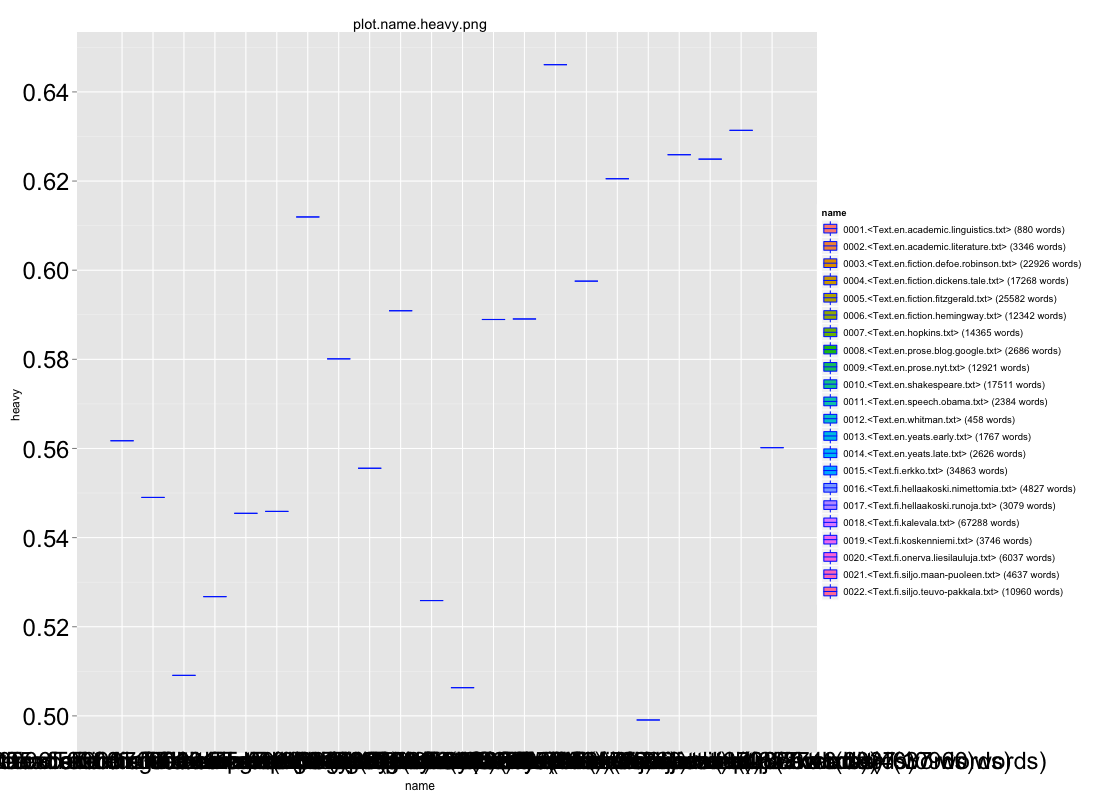
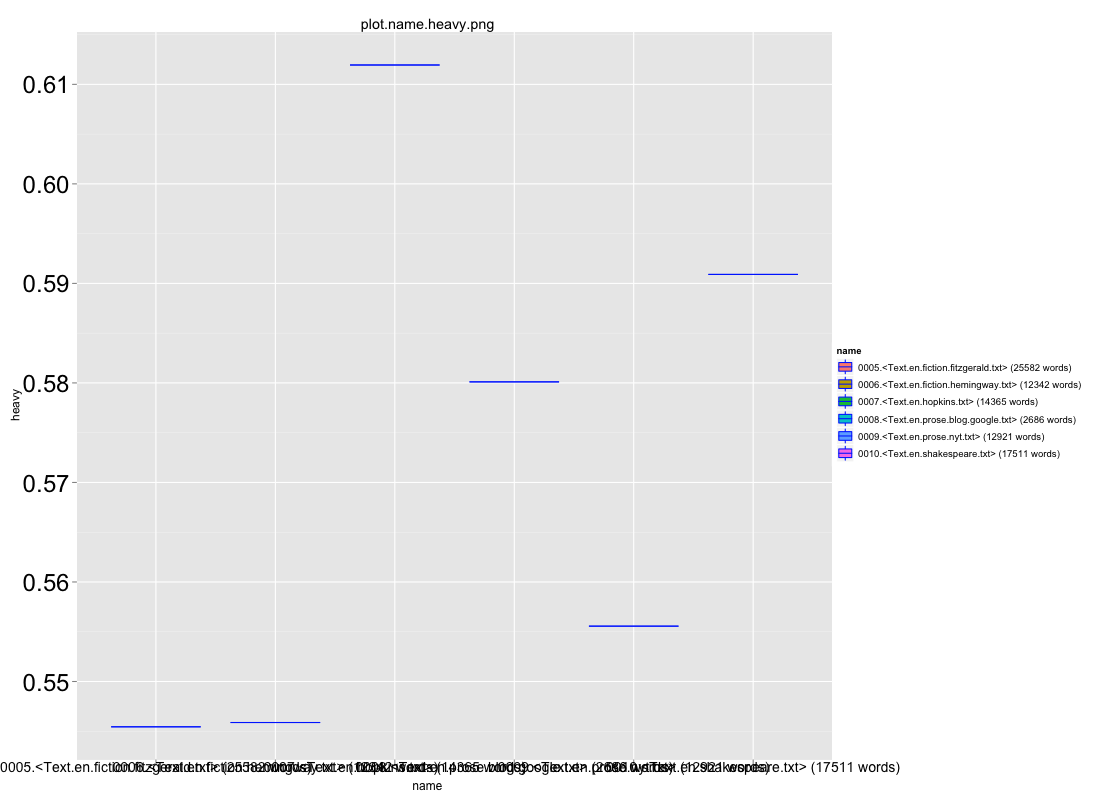
methods added

diff --git a/Rpy2Matrix.py b/Rpy2Matrix.py
@@ -46,6 +46,7 @@ class M():
 		self.nrow=0
 		self.ncol=0
 		self._quantv=None
+		self._subv={'cols':{},'rows':{},'cols_rows':{}}
 		
 		if not input: return
 		if not len(input): return
@@ -53,17 +54,14 @@ class M():
 		
 		if type(input)==type([]) and type(input[0])==type({}):
 			self._gen_LD(input)
-		elif type(input)==type(self):
-			self._gen_self(input)
-		elif type(input)==type(ro.DataFrame):
-			self._gen_DF(input)
 		elif type(input)==type({}) and type(input.values()[0]==type([])):
 			self._gen_DL(input)
+		elif type(input)==type(self):
+			self._gen_self(input)
+		elif type(input)==type(ro.DataFrame({})):
+			self._gen_DF(input)
 		else:
 			raise InputNotRecognizedError("Cannot recognize input of type "+type(input))
-		
-		for k,v in self.df.__dict__.items():
-			setattr(self,k,v)
 
 	def __str__(self):
 		return self.df.__str__()
@@ -92,19 +90,91 @@ class M():
 				rownum=self.rows.index(rowname)
 			else:
 				rownum=rowname
-			return [ self.df[i][rownum] for i in range(self.ncol)]
+				
+			l=[]
+			for colnum in range(self.ncol):
+				c=self.df[colnum]
+				if type(c)==type(ro.FactorVector([])):
+					l+=[c.levels[c[rownum] - 1]]
+				else:
+					l+=[c[rownum]]
+		
+			return l
 		except:
 			return
 	
 	
-	def toDL(self):
+	def toDL(self,cols=None,rows=None,rownamecol=False):
 		dl={}
-		for i in range(self.ncol):
-			col=self.col(i)
-			colname=self.cols[i]
-			dl[colname]=col
+		if not cols and not rows:
+			for i in range(self.ncol):
+				col=self.col(i)
+				colname=self.cols[i]
+				dl[colname]=col
+			if rownamecol:
+				dl['rownamecol']=self.df.rownames
+			
+		elif cols and not rows:
+			for col in cols:
+				dl[col]=self.col(col)
+			if rownamecol:
+				dl['rownamecol']=self.df.rownames
+			
+		elif cols and rows:
+			for col in cols:
+				dl[col]=[]
+				colnum=self.cols.index(col)
+				for row in rows:
+					rowdat=self.row(row)
+					dl[col].append(rowdat[colnum])
+			
+			if rownamecol:
+				dl['rownamecol']=[]
+				for row in rows:
+					if type(row)==type(''):
+						dl['rownamecol'].append(row)
+					else:
+						dl['rownamecol'].append(self.rows[row])
+				
+			
+		elif rows and not cols:
+			for col in self.cols:
+				dl[col]=[]
+				colnum=self.cols.index(col)
+				for row in rows:
+					rowdat=self.row(row)
+					dl[col].append(rowdat[colnum])
+					
+			if rownamecol:
+				dl['rownamecol']=[]
+				for row in rows:
+					if type(row)==type(''):
+						dl['rownamecol'].append(row)
+					else:
+						dl['rownamecol'].append(str(self.rows[row]))
+
 		return dl
+
+	
+	def sub(self,cols=[],rows=[]):
+		if cols and not rows:
+			keytup=('cols',tuple(sorted(cols)))
+		elif cols and rows:
+			keytup=('cols',tuple( tuple(sorted(cols)), tuple(sorted(rows)) ))
+		elif rows and not cols:
+			keytup=('rows',tuple(sorted(rows)))
+		elif not cols and not rows:
+			return self
 		
+		try:
+			return self._subv[keytup[0]][keytup[1]]
+		except KeyError:
+			#if bool(self.rownames):
+			m=M(self.toDL(cols,rows,rownamecol=True),rownamecol='rownamecol')
+			#else:
+			#	m=M(self.toDL(cols,rows))
+			self._subv[keytup[0]][keytup[1]]=m
+			return m
 	
 	def q(self):
 		"""Return a version of self of only quantitative columns"""
@@ -140,6 +210,9 @@ class M():
 	
 	def _gen_DL(self,dl):
 		self.origin='dl'
+		if self.rownamecol:
+			self.rownames=dl[self.rownamecol]
+			del dl[self.rownamecol]
 		self._boot_DL(dl)
 		
 	def _gen_LD(self,ld):
@@ -199,7 +272,7 @@ class M():
 
 
 
-	def plot(self, fn=None, x='x', y='y', col=None, group=None, w=1100, h=800, size=2, smooth=True, point=True, jitter=False, boxplot=False, boxplot2=False, title=False, flip=False, se=False, density=False, line=False):
+	def plot(self, fn=None, x='x', y='y', col=None, group=None, w=1100, h=800, size=2, smooth=True, point=True, jitter=False, boxplot=False, boxplot2=False, title=False, flip=False, se=False, density=False, line=False , xlab_size=14, ylab_size=24):
 		
 		if fn==None:
 			fn='plot.'+'.'.join([x,y])+'.png'
@@ -268,7 +341,7 @@ class M():
 			pp+=ggplot2.geom_line(position='jitter')
 
 
-		pp+=ggplot2.opts(**{'title' : title, 'axis.text.x': ggplot2.theme_text(size=24), 'axis.text.y': ggplot2.theme_text(size=24,hjust=1)} )
+		pp+=ggplot2.opts(**{'title' : title, 'axis.text.x': ggplot2.theme_text(size=xlab_size), 'axis.text.y': ggplot2.theme_text(size=ylab_size,hjust=1)} )
 		#pp+=ggplot2.scale_colour_brewer(palette="Set1")
 		pp+=ggplot2.scale_colour_hue()
 		if flip:
